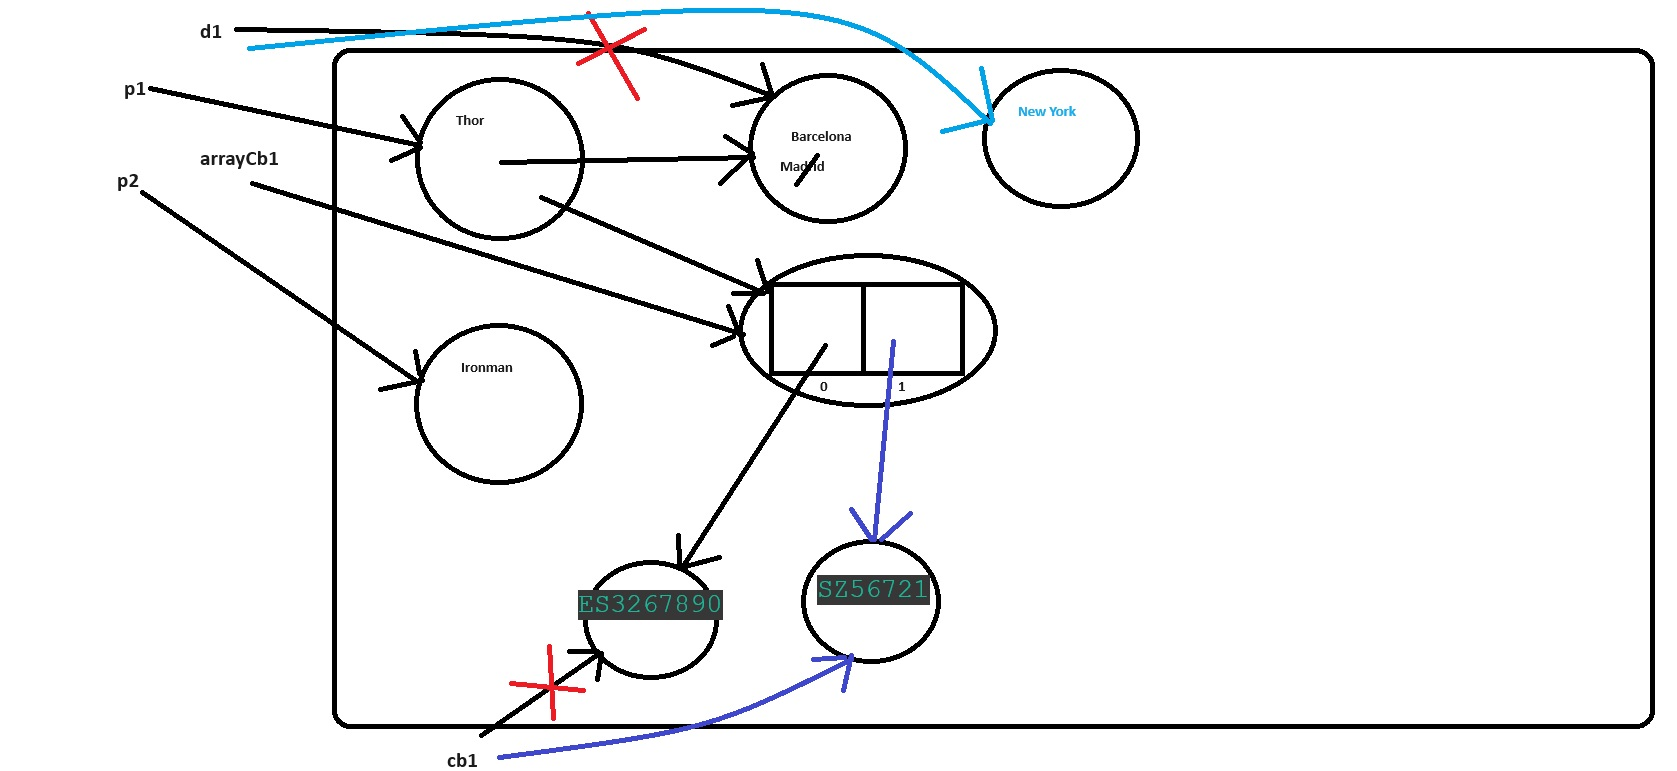
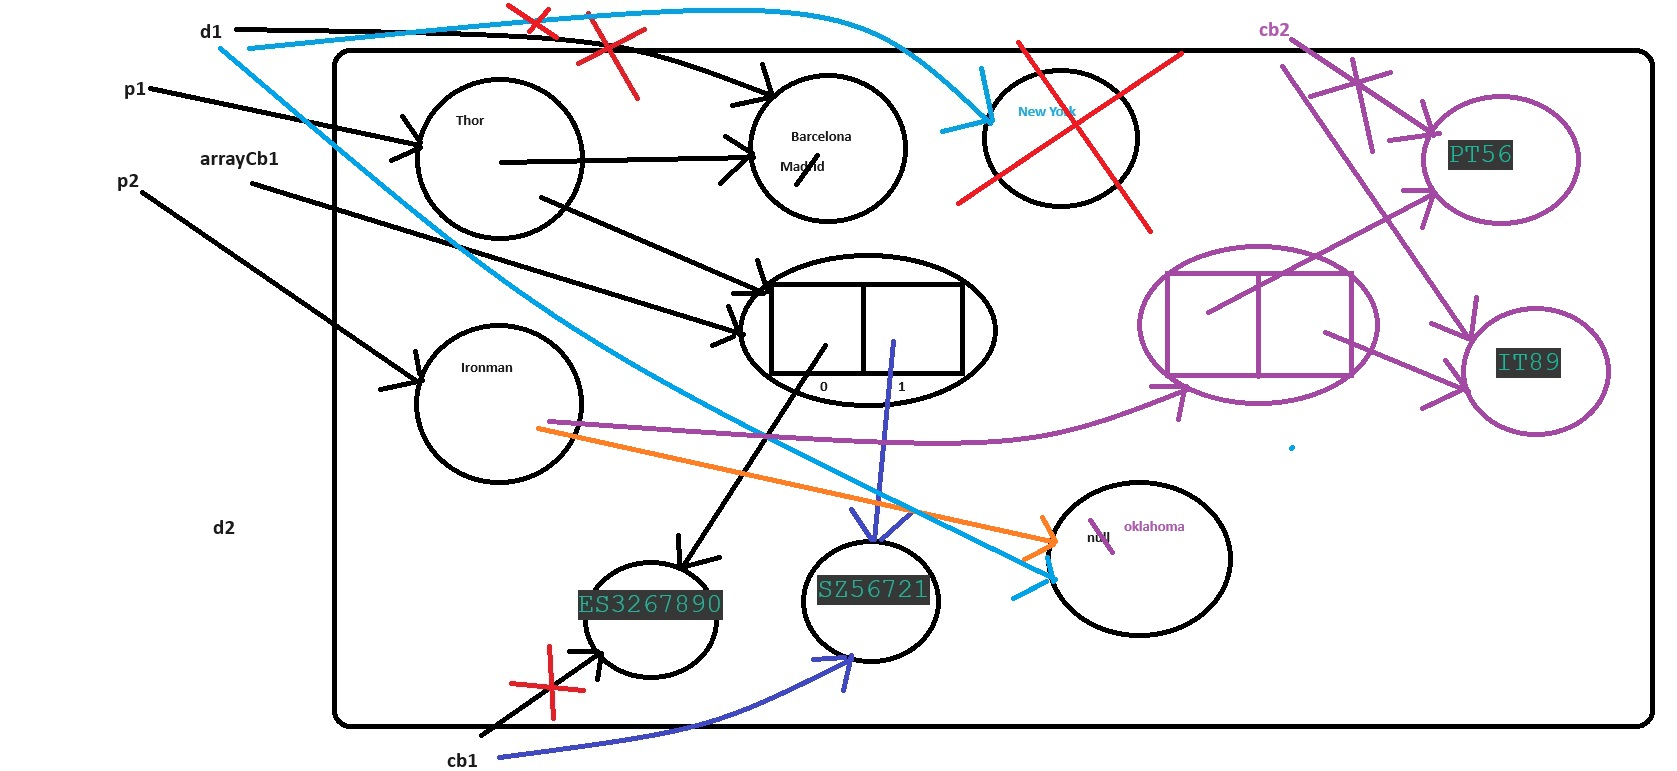
clase 08/02/2024

diff --git a/06_Clases/src/_07_relaciones/MainRelaciones.java b/06_Clases/src/_07_relaciones/MainRelaciones.java
@@ -50,11 +50,29 @@ public class MainRelaciones {
 		Persona p2 = new Persona();
 		//p2.direccion = "Orense 05789 Plaza de España 78"; 
 		p2.nombre = "Ironman";
-		//p2 = p1;
+		//p2 = p1;v
 		d1 = new Direccion();
 		d1.ciudad = "New York";
 		p2.direccion = d1;
-		System.out.println(p2.direccion.ciudad);
+		//System.out.println(p2.direccion.ciudad.charAt(0));
 		//p1 = null;
+		p2.direccion.ciudad = "Oklahoma";
+		System.out.println(d1.ciudad);
+		
+		CuentaBancaria cb2 = new CuentaBancaria();
+		cb2.iban = "PT56";
+		p2.cuentasBancarias = new CuentaBancaria[2];
+		p2.cuentasBancarias[0] = cb2;
+		
+		cb2 = new CuentaBancaria();
+		
+		p2.cuentasBancarias[1] = cb2;
+		cb2.iban = "IT89";
+		System.out.println(p2.cuentasBancarias[1].iban);
+		System.out.println(p2.cuentasBancarias[1]);
+		
+		System.out.println(p1);
+		System.out.println(p2);
+		
 	}
 }

diff --git a/06_Clases/src/_07_relaciones/Persona.java b/06_Clases/src/_07_relaciones/Persona.java
@@ -1,9 +1,18 @@
 package _07_relaciones;
 
+import java.util.Arrays;
+
 //Joder que muñonada he metido antes :) :P
 public class Persona {
 	String nombre;
 	Direccion direccion;//1-1 en BBDD
 	CuentaBancaria[] cuentasBancarias;//1-N
+	
+	@Override
+	public String toString() {
+		return "Persona [nombre=" + nombre + ", direccion=" + direccion + ", cuentasBancarias="
+				+ Arrays.toString(cuentasBancarias) + "]";
+	}
+	
 	
 }

diff --git a/06_Clases/src/_07_relaciones/Direccion.java b/06_Clases/src/_07_relaciones/Direccion.java
@@ -7,4 +7,11 @@ public class Direccion {
 	String nombreVia;
 	String ciudad;
 	String cp;
+	
+	@Override
+	public String toString() {
+		return "Direccion [tipoVia=" + tipoVia + ", nombreVia=" + nombreVia + ", ciudad=" + ciudad + ", cp=" + cp + "]";
+	}
+	
+	
 }

diff --git a/06_Clases/src/_07_relaciones/CuentaBancaria.java b/06_Clases/src/_07_relaciones/CuentaBancaria.java
@@ -3,4 +3,10 @@ package _07_relaciones;
 public class CuentaBancaria {
 	String iban;
 	double saldo;
+	@Override
+	public String toString() {
+		return "CuentaBancaria [iban=" + iban + ", saldo=" + saldo + "]";
+	}
+	
+	
 }
